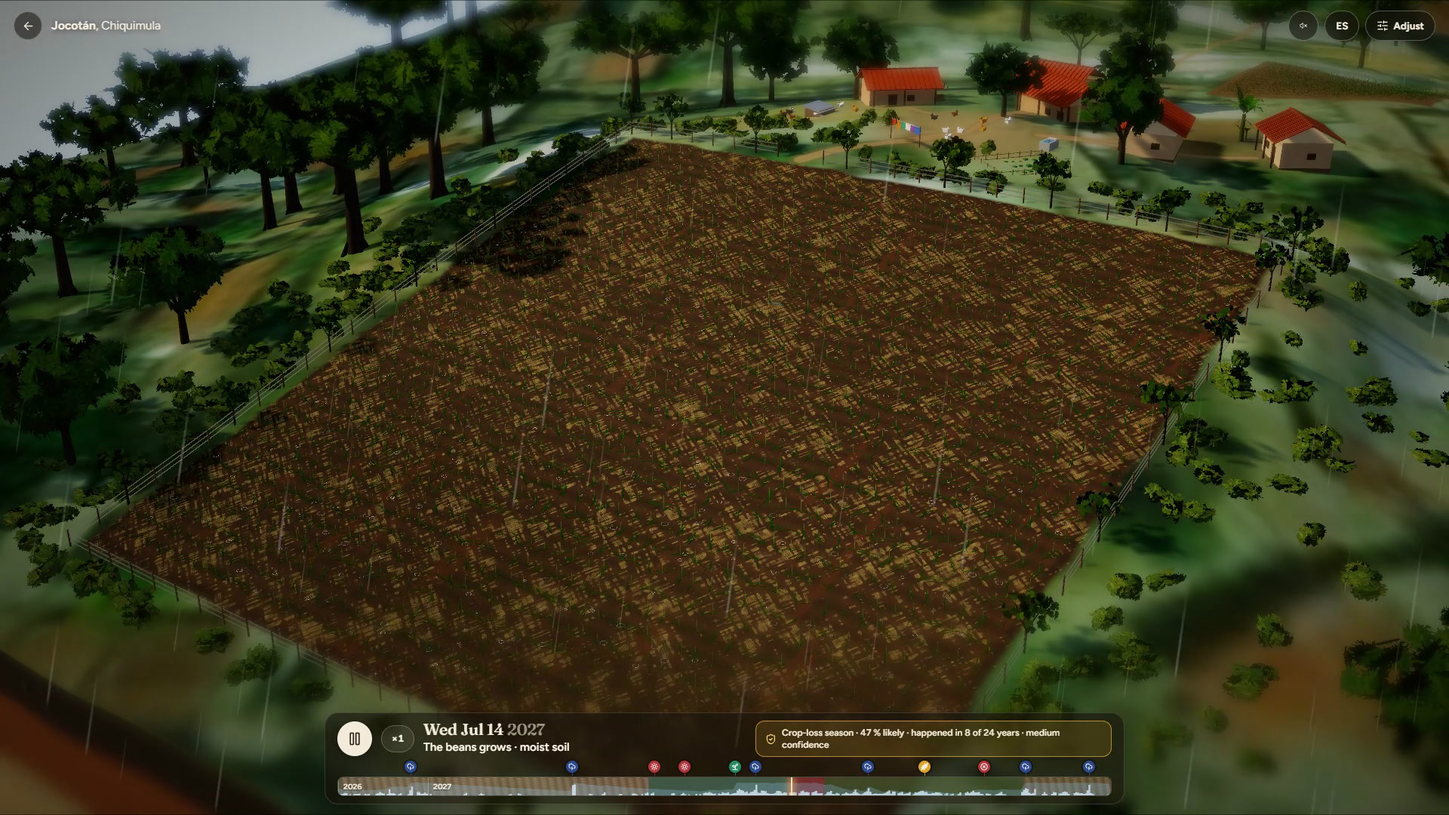
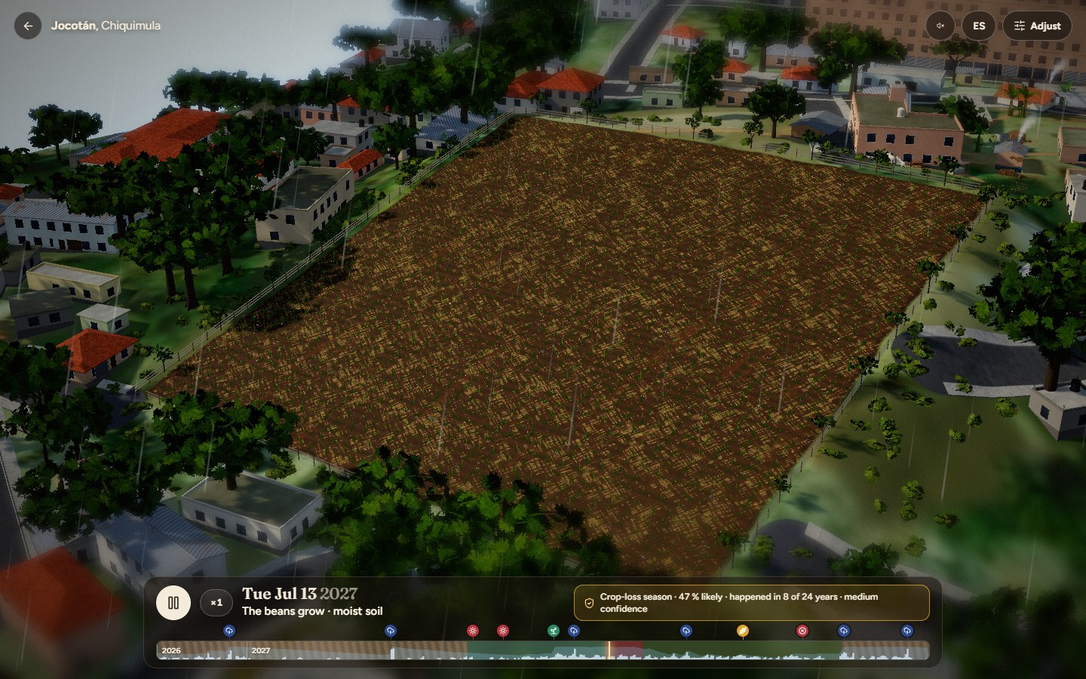
Integrador 4: ronda 4 unida (suelo, ciudad, casas, parcela exacta, informe breve, Evolution), progreso por etapa, e2e del flujo residencial → polígono → guía → informe, bot por Evolution falsa, capturas y textos EN

diff --git a/e2e/tests/sandbox.spec.ts b/e2e/tests/sandbox.spec.ts
@@ -174,3 +174,81 @@ test('simulador: VIDEO 🎬 devuelve el video de la milpa', async ({ page, reque
   await page.goto('/')
   await page.waitForTimeout(1000)
 })
+
+// Ronda 4: residencial de Ciudad de Guatemala → polígono dibujado → guía (casas vecinas en 3D) → informe minimalista
+// con gráficas exportables (PNG/SVG/CSV) → PDF con la misma forma.
+test('ronda 4: residencial (Zona 10) → polígono → guía → informe con gráficas exportables', async ({ page, request }) => {
+  test.skip(process.env.STATIC === '1', 'el motor y el PDF necesitan el servidor')
+  test.setTimeout(300_000)
+  const errors = watchErrors(page)
+  await page.goto('/?lang=es&e2e=1')
+  await page.waitForSelector('[data-testid=globo][data-listo="1"]', { timeout: 30_000 })
+  await page.getByTestId('buscar-lugar').fill('Condominio Las Margaritas')
+  const op = page.getByRole('option').filter({ hasText: /Zona 10|Guatemala/ }).first()
+  await expect(op).toBeVisible({ timeout: 25_000 })
+  await op.click()
+  await expect(page.getByTestId('lugar-elegido')).toBeVisible()
+  await page.waitForFunction(() => { const m = (window as any).__globo; return m && !m.isMoving() && m.getZoom() > 14 }, null, { timeout: 30_000 })
+  await page.waitForTimeout(1200)
+  await page.getByTestId('dibujar-terreno').click()
+  await page.getByTestId('forma-poligono').click()
+  await page.waitForTimeout(1000)
+  const v = page.viewportSize()!
+  const c = { x: v.width * 0.7, y: v.height * 0.5 }
+  for (const [dx, dy] of [[-60, -40], [60, -50], [70, 40], [-50, 50]]) { await page.mouse.click(c.x + dx, c.y + dy); await page.waitForTimeout(150) }
+  await page.getByTestId('cerrar').click()
+  await expect(page.getByTestId('dibujo-area')).toContainText(/cuerdas .* mz .* ha/)
+  await snap(page, 'residencial-01-poligono')
+  await page.getByTestId('dibujo-listo').click()
+  await page.getByTestId('ver-temporada').click()
+  await expect(page).toHaveURL(/\/sandbox\?.*forma=poligono&poly=/)
+  await snap(page, 'residencial-02-carga')
+  // la escena se arma en el navegador: forma real y edificios vecinos de la ciudad
+  await page.waitForFunction(() => (window as any).__fsListo, null, { timeout: 90_000 })
+  const listo = await page.evaluate(() => (window as any).__fsListo)
+  console.log('ready residencial:', JSON.stringify({ forma: listo.forma, areaM2: listo.areaM2, edificios: listo.edificios, casasQuitadas: listo.casasQuitadas, ms: listo.ms }))
+  expect(listo.forma).toBe('poligono')
+  expect(listo.edificios, 'casas vecinas en 3D').toBeGreaterThan(5)
+  const final = await guiaHastaFinal(page, 'residencial-')
+  await final.getByRole('link', { name: /informe técnico|technical report/i }).click()
+  await expect(page).toHaveURL(/\/informe\?.*forma=poligono/)
+  await expect(page.locator('body')).toContainText(/años|years/, { timeout: 90_000 })
+  await page.waitForTimeout(2500)
+  await snap(page, 'residencial-04-informe')
+  await snap(page, 'residencial-05-informe-completo', true)
+  // gráficas exportables
+  const png = page.getByRole('button', { name: 'PNG', exact: true }).first()
+  await png.scrollIntoViewIfNeeded()
+  for (const b of ['PNG', 'SVG', 'CSV']) {
+    const [d] = await Promise.all([page.waitForEvent('download'), page.getByRole('button', { name: b, exact: true }).first().click()])
+    const f = path.join(DIR, `residencial-grafica.${b.toLowerCase()}`)
+    await d.saveAs(f)
+    expect(fs.statSync(f).size, b).toBeGreaterThan(200)
+  }
+  const pdf = await request.get(`/api/informe.pdf${new URL(page.url()).search}`, { timeout: 170_000 })
+  expect(pdf.ok(), `pdf ${pdf.status()}`).toBeTruthy()
+  fs.writeFileSync(path.join(DIR, 'informe-residencial.pdf'), await pdf.body())
+  noErrors(errors)
+})
+
+// Ronda 4: una parcela sobre el río Motagua → la maqueta avisa y ofrece elegir otro lugar.
+test('ronda 4: parcela sobre el río Motagua avisa', async ({ page }) => {
+  await page.goto('/sandbox?lat=14.92010&lon=-90.00310&lugar=R%C3%ADo+Motagua&pais=GT&forma=circulo&radio=30&cultivo=milpa&auto=1&lang=es')
+  const aviso = page.getByRole('alertdialog')
+  await expect(aviso).toBeVisible({ timeout: 90_000 })
+  await snap(page, 'rio-motagua-aviso')
+  await aviso.getByRole('button').first().click()
+  await expect(page).toHaveURL(/elegir=1/)
+})
+
+// Ronda 4: desierto (Sahara, Erfoud) con punto → la escena arma arena y la guía corre.
+test('ronda 4: desierto (Sahara) con punto', async ({ page }) => {
+  test.skip(process.env.STATIC === '1', 'el motor global necesita el servidor')
+  await page.goto('/sandbox?lat=31.15000&lon=-4.00000&lugar=Erg+Chebbi&pais=MA&forma=punto&area=1&unidad=ha&cultivo=milpa&auto=1&lang=es')
+  await page.waitForFunction(() => (window as any).__fsListo, null, { timeout: 90_000 })
+  const listo = await page.evaluate(() => (window as any).__fsListo)
+  console.log('ready sahara:', JSON.stringify({ forma: listo.forma, bioma: listo.bioma, ms: listo.ms }))
+  expect(listo.forma).toBe('punto')
+  await page.waitForTimeout(6000)
+  await snap(page, 'sahara-01-guia')
+})

diff --git a/web/src/features/sandbox/ui/guia.ts b/web/src/features/sandbox/ui/guia.ts
@@ -57,7 +57,7 @@ export function lineaDia(tl: SimTimeline, dia: number, estacion: Estacion, idiom
       ? {
           racha_seca: `${estacion === 'canicula' ? 'Mid-summer drought' : 'Dry spell'}: ${Math.round(e.dias || e.valor)} days without rain`,
           tormenta: `Storm: ${v(e.valor)} mm in one day`,
-          siembra: `Planting · ${cul.toLowerCase()} goes in`,
+          siembra: `Planting · ${cul.toLowerCase()} ${/s$/i.test(cul) ? 'go' : 'goes'} in`,
           cosecha: `Harvest: ${v(e.valor, 1)} qq/mz`,
           perdida: 'The harvest is lost',
           calor: `Heat: ${v(e.valor, 1)} °C`,
@@ -88,8 +88,10 @@ export function lineaDia(tl: SimTimeline, dia: number, estacion: Estacion, idiom
   const cap = tl.capas[k]
   const et = cap.etapa[d]
   const cul = cultivoDe(cap.cultivo, en)
+  // concordancia en inglés: "The beans grow", "The maize grows"
+  const pl = en && /s$/i.test(cul)
   const fase = en
-    ? et < 0.15 ? `${cul} sprouts` : et < 0.45 ? `${cul} grows` : et < 0.65 ? `${cul} flowers` : et < 0.9 ? 'Grain filling' : 'Ready to harvest'
+    ? et < 0.15 ? `${cul} ${pl ? 'sprout' : 'sprouts'}` : et < 0.45 ? `${cul} ${pl ? 'grow' : 'grows'}` : et < 0.65 ? `${cul} ${pl ? 'flower' : 'flowers'}` : et < 0.9 ? 'Grain filling' : 'Ready to harvest'
     : et < 0.15 ? `${cul} nace` : et < 0.45 ? `${cul} crece` : et < 0.65 ? `${cul} en floración` : et < 0.9 ? 'Llenado del grano' : 'Lista para cosechar'
   const extra = ll >= 5 ? (en ? ` · ${numero(ll, 0)} mm of rain` : ` · llueve ${numero(ll, 0)} mm`)
     : agua < 0.25 ? (en ? ' · dry soil' : ' · suelo seco')

diff --git a/web/src/features/informe/textos.ts b/web/src/features/informe/textos.ts
@@ -14,7 +14,7 @@ const ES = {
   error: 'No se pudo armar el informe.',
   reintentar: 'Reintentar',
   cultivo: 'Cultivo', area: 'Área', riego: 'Riego', prioridad: 'Prioridad', coords: 'Coordenadas',
-  riegoNada: 'sin riego (temporal)', mmSem: 'mm/semana',
+  riegoNada: 'sin riego (temporal)', mmSem: 'mm/semana', mmSemCorto: 'mm/sem',
   origen_api: 'Cálculo en vivo del motor',
   origen_static: 'Plan precalculado del motor (la API no respondió)',
   origen_approx: 'Plan precalculado más cercano (la API no respondió): los números son de otra combinación',
@@ -229,7 +229,7 @@ const EN: Record<Clave, string> = {
   error: 'The report could not be built.',
   reintentar: 'Retry',
   cultivo: 'Crop', area: 'Area', riego: 'Irrigation', prioridad: 'Priority', coords: 'Coordinates',
-  riegoNada: 'rain-fed (no irrigation)', mmSem: 'mm/week',
+  riegoNada: 'rain-fed (no irrigation)', mmSem: 'mm/week', mmSemCorto: 'mm/wk',
   origen_api: 'Live engine calculation',
   origen_static: 'Engine precomputed plan (the API did not answer)',
   origen_approx: 'Closest precomputed plan (the API did not answer): numbers are from another combination',

diff --git a/web/src/features/sandbox/escena/nucleo/sandbox.ts b/web/src/features/sandbox/escena/nucleo/sandbox.ts
@@ -200,7 +200,7 @@ class SandboxImpl implements Sandbox {
     const etapa = (e: EtapaCarga, f: number) => {
       // progreso global: cada etapa ocupa un tramo de la barra
       const [a, b] = TRAMOS[e]
-      this.emitir('progreso', { etapa: e, p: Math.min(1, a + (b - a) * Math.min(1, Math.max(0, f))), texto: TEXTO_ETAPA[this.opts.idioma ?? 'es'][e] })
+      this.emitir('progreso', { etapa: e, u: Math.min(1, Math.max(0, f)), p: Math.min(1, a + (b - a) * Math.min(1, Math.max(0, f))), texto: TEXTO_ETAPA[this.opts.idioma ?? 'es'][e] })
     }
     const cierra = (e: string) => { const t = performance.now(); tiempos[e] = Math.round(t - tEtapa); tEtapa = t }
     const areaPedida = Math.max(100, (p.areaValor ?? 8) * (M2[p.areaUnidad ?? 'cuerda'] ?? M2.cuerda))

diff --git a/web/src/features/sandbox/escena/api.ts b/web/src/features/sandbox/escena/api.ts
@@ -109,7 +109,7 @@ export interface SandboxEvents {
   }
   progress: { fase: string; p: number }
   /** Carga por etapas (ronda 4): p = avance total 0..1, texto listo para la pantalla de carga. */
-  progreso: { etapa: EtapaCarga; p: number; texto: string }
+  progreso: { etapa: EtapaCarga; /** avance de la etapa 0..1 */ u: number; /** avance global 0..1 */ p: number; texto: string }
   /** La parcela cae (más del 20 %) en agua de río/lago: vuelo4 lo avisa y pide mover el punto. */
   parcelaEnAgua: { fraccion: number; lat: number; lon: number; tipo?: 'rio' | 'lago' | 'mar' }
   dia: { indice: number; fecha: string; clima: ClimaVisual }

diff --git a/web/src/features/informe/graficos/GTemporada.vue b/web/src/features/informe/graficos/GTemporada.vue
@@ -53,7 +53,7 @@ const meses = computed(() => {
       <text :x="L - 5" :y="yl(t) + 3.5" text-anchor="end" class="ax">{{ t }}</text>
       <text :x="W - R + 5" :y="yl(t) + 3.5" class="ax">{{ Math.round((t / tope) * 100) }}%</text>
     </g>
-    <text x="2" :y="T - 12" class="ax u">mm/sem</text>
+    <text x="2" :y="T - 12" class="ax u">{{ tx('mmSemCorto') }}</text>
     <text :x="W - 2" :y="T - 12" text-anchor="end" class="ax u">{{ tx('aguaCorto') }}</text>
     <g v-for="(v, i) in lluviaS" :key="i">
       <rect v-if="v > 0" :x="xd(i * 7) + 0.6" :y="yl(v)" :width="Math.max(1, bw - 1.2)" :height="yl(0) - yl(v)" :fill="TONO.cielo" />

diff --git a/web/src/features/sandbox/vuelo/escena.ts b/web/src/features/sandbox/vuelo/escena.ts
@@ -123,7 +123,8 @@ function adaptarReal(crear: any, canvas: HTMLCanvasElement, o: OpcionesSandbox):
   let tlActual: unknown = null
   let pend: Promise<void> = Promise.resolve()
   const listo = new Promise<void>((res) => {
-    sb.on('ready', (d: any) => { rumbo = d?.rumboCamara; res() })
+    // último ready a la vista (e2e y depuración: forma, edificios, casasQuitadas, aguaEnParcela)
+    sb.on('ready', (d: any) => { rumbo = d?.rumboCamara; (window as any).__fsListo = d; res() })
     sb.on('error', () => res())
   })
   return {

diff --git a/submission/pitch/portal_page.md b/submission/pitch/portal_page.md
@@ -1,6 +1,6 @@
-# Project page texts · round 3 (English, ready to paste)
+# Project page texts · round 4 (English, ready to paste)
 
-These replace or extend the fields in `submission/0*.md` with the round-3 features: **global**, **forecast with measured confidence**, **technical report**, **real WhatsApp**.
+These replace or extend the fields in `submission/0*.md` with the round-3 and round-4 features: **global**, **forecast with measured confidence**, **technical report**, **real WhatsApp**, and (round 4) **the exact plot drawn on the map**, **a realistic diorama built in the visitor's browser** and **a short report with exportable charts**.
 Markers `⟦…⟧` must be filled before pressing Submit (`grep -rn "⟦" submission/`).
 Every number below comes from the engine output or the backtest already in the repo (sources in brackets at the end of this file). Before submitting, re-check the ones tagged ⟦CHECK⟧ against the final build.
 
@@ -29,9 +29,13 @@ Field Shift is a free planning and early-warning tool for rain-fed smallholders,
 3. **When do I need to act?** Dry-spell, heavy-rain, planting-window and frost alerts on WhatsApp, all season long.
 
 ### How it works
-**1. Two taps.** On the landing page the farmer searches a town or taps the map, then answers what they grow, how big the plot is (in *cuerdas*, *manzanas* or hectares) and whether they irrigate. Everything else has sensible defaults. The guided video starts on its own.
+**1. Two taps, or the exact plot.** On the landing page the farmer searches a town, village, *colonia*, residential or condominium anywhere in the world (OpenStreetMap Photon and Nominatim, Esri World Geocoder, Open-Meteo), for example "Condominio Las Margaritas" → Zona 10, Guatemala City. Two taps are enough. They can also mark **the exact plot**: a point, a circle with a draggable radius, or a free polygon of up to 200 corners clicked on high-resolution imagery. The area is computed from the shape (in *cuerdas*, *manzanas* and hectares). If the shape falls on a river or lake (OpenStreetMap water), the page warns and does not let them continue. Everything else has sensible defaults. The guided video starts on its own.
 
-**2. The flight.** The camera flies from the map straight to the pin (centred) and down to the real terrain: SRTM relief and Sentinel-2 cloudless imagery. The plot rises as a small diorama on the real slope, with a ranch house and trees.
+**2. The flight and the diorama, built on the visitor's device.** The camera flies from the map straight to the plot and down to the real terrain (SRTM relief, Esri World Imagery, with the whole route preloaded so no blank tiles appear). The real outline of the plot is drawn on the ground. Then the plot rises as a diorama **to real scale and with its real shape**, and everything is rendered in the visitor's browser (WebGL), with a loading screen that names each stage: relief, ground, city, houses, vegetation. Quality adapts to the device. On a laptop GPU the first load takes 7–15 s, then 50–60 fps.
+- **The ground is the real land cover**: ESA WorldCover / Esri–Impact Observatory 10 m land cover (Sentinel-2), refined with the satellite colour and the slope, becomes 3D materials: grass with blades that move in the wind, sand with ripples and dunes, rock with strata, tilled soil with clods, wetland, leaf litter. Rivers and lakes from OpenStreetMap are real water with banks.
+- **The neighbourhood is modelled**: building footprints from Overture Maps (OpenStreetMap, Google and Microsoft Open Buildings), with heights from OSM or estimated, and the roof type read from the satellite image (clay tile, concrete slab, metal sheet). Buildings that fall inside the plot are removed; streets follow the terrain. Footprints are real; facades and estimated heights are illustrative.
+- **Rural plots get a farm** chosen from the biome (milpa, coffee under shade, cattle, vegetables with a tunnel, dry farm with a well), with adobe or block houses, animals and paths.
+- **Nothing is placed on water.** No plot, tree, house or fence ends up in a river or lake. If the plot itself is on water, the diorama says so and offers to pick another place.
 
 **3. The season, from the forecast.** The engine (`POST /api/simulate`, scenario `pronostico`, the default) builds the coming season:
 - **days 1–16**: the daily forecast from the best available model (ECMWF IFS / NOAA GFS via Open-Meteo);
@@ -52,9 +56,9 @@ That weather goes through the same deterministic engine as the rest of the tool 
 
 For each one it reports seasons lost out of 10 (P10–P90), water deficit, yield range in quintals per manzana, organic-matter trend over 5 years, erosion, bare-soil days, and the **five-point sheet**: why it is suggested, evidence, benefits, missing information, and risks that need local review. The farmer's priorities and limits (food, water, soil or income; labour; livestock; seed access) re-rank the options. In Jocotán (all seasons 2001–2025): S0 loses 3.3 of 10 seasons with 61 t/ha/yr of erosion; S1 loses 1.1 with 12 t/ha/yr; S2 loses 2.6 with 4 t/ha/yr, and bare soil drops from 260 to 115 days a year. A 2026 ↔ 2040 switch recomputes the plan with NEX-GDDP-CMIP6 deltas.
 
-**6. The technical report.** At the end of the video, one tap opens `/informe` (web, print-ready, English/Spanish) or downloads it as a PDF (`/api/informe.pdf`). It has 13 sections: executive summary, location and 2001–2025 climate, predicted scenario and confidence, planting calendar and canícula, the three strategies with their five-point sheets, effect of irrigation, 2040 under CMIP6, active alerts and what to do, AI vs statistics, methodology, validation, sources and limitations. The video stays clean; the numbers live in the report, which the farmer can hand to their extension agent.
+**6. The report: short, visual, exportable.** At the end of the video, one tap opens `/informe` (web, English/Spanish) or downloads it as a PDF (`/api/informe.pdf`). The cover fits one screen: a one-sentence verdict, four big numbers (risk out of 10, harvest range for the coming season, confidence, soil organic matter in 5 years) and a satellite map with the real shape of the plot. Then six sections, each with **one chart** and two or three lines: the coming season (weekly rain and soil water against the FAO-56 stress line), the three strategies as P10–P50–P90 ranges, dry-month risk, soil in 5 years, the effect of irrigation, and 2040. Every chart can be downloaded as **PNG, SVG or CSV** with the raw data. A **"What to get"** section turns the result into practical items: short-cycle seed, mucuna/canavalia, water harvesting sized to the plot (litres per week), drip irrigation, mulch, a rain gauge, a hermetic silo. Each says why (with the engine's numbers), when, and where to ask (MAGA, ICTA, farm stores). No brands, and no prices without a verified source. The full technical annex (confidence, five-point sheets, 25 seasons, methodology, validation, sources, limitations) is folded at the end and printed in the PDF. Every number on the page is checked against the engine output by an automated script.
 
-**7. Alerts on real WhatsApp.** The same bot works on the web phone simulator and on a real WhatsApp number linked as a device ⟦CHECK: number + QR/join instructions on the site⟧. A farmer sends a location pin, answers buttons, and gets the plan card, the season video (MP4 with ambient sound and narration) and the technical report as a PDF document in the chat. Voice notes work both ways: a voice note is transcribed on the team's GPU (faster-whisper) and answered like text, and typing AUDIOS makes the bot also reply with short synthetic voice notes (TEXTO turns it off). They can opt in to alerts: an engine runs every day at 06:00 local time and sends, idempotently, a warning when the 16-day forecast shows a dry spell (≥ 7 dry days with each model's threshold calibrated against NASA POWER 2001–2025), heavy rain (above the local 95th percentile), the rain onset or a false onset, the seasonal El Niño outlook, or frost. Every alert says *what is coming · when · how sure we are · what to do · check with your extension agent*. Sending **PRUEBA ALERTA** (or **TEST ALERT**) triggers one at once, so a judge can try it. Commands: MENU, CAMBIAR, EN, AYUDA, VIDEO, AUDIOS/TEXTO, BAJA/STOP.
+**7. Alerts on real WhatsApp.** The same bot works on the web phone simulator and on a real WhatsApp number linked as a device through **Evolution API** (open source, self-hosted; the team scans a QR code once on `/admin/whatsapp`) ⟦CHECK: number + QR/join instructions on the site⟧. A farmer sends a location pin, answers buttons, and gets the plan card, the season video (MP4 with ambient sound and narration) and the technical report as a PDF document in the chat. Voice notes work both ways: a voice note is transcribed on the team's GPU (faster-whisper) and answered like text, and typing AUDIOS makes the bot also reply with short synthetic voice notes (TEXTO turns it off). They can opt in to alerts: an engine runs every day at 06:00 local time and sends, idempotently, a warning when the 16-day forecast shows a dry spell (≥ 7 dry days with each model's threshold calibrated against NASA POWER 2001–2025), heavy rain (above the local 95th percentile), the rain onset or a false onset, the seasonal El Niño outlook, or frost. Every alert says *what is coming · when · how sure we are · what to do · check with your extension agent*. Sending **PRUEBA ALERTA** (or **TEST ALERT**) triggers one at once, so a judge can try it. Commands: MENU, CAMBIAR, EN, AYUDA, VIDEO, AUDIOS/TEXTO, BAJA/STOP.
 
 **8. The 2026 time machine (validation of the alerts).** We replayed the alert engine on every day of the real 2026 season (195 days) using only the forecasts that existed that morning (Open-Meteo Historical Forecast API), and compared each alert with NASA POWER observed rain. Jocotán: **5 of 6 dry-spell alerts confirmed, 0 false alarms**, rain onset called 4 days ahead, best lead time **7 days** (17 Oct 2026, before an 8-day dry spell; median 2 days). Heavy rain is harder: **3 of 14** alerts confirmed (21 % precision vs 6 % by chance), though both multi-day storm episodes were flagged. We publish the misses.
 
@@ -80,7 +84,7 @@ Any latitude and longitude work. Outside the 342 precomputed Guatemalan municipa
 3.4 million people in Guatemala (19 % of the population) were in acute food insecurity (IPC Phase 3+) in May–August 2025, and 3.2 million are projected for July–September 2026 (IPC/SESAN), a year in which El Niño lengthened the dry spells in the Dry Corridor. Hundreds of millions of smallholders elsewhere farm on rain alone with the same blind spot. A tool that runs on WhatsApp, works anywhere, and says how sure it is can reach them where no farm app does.
 
 ### What works today and next steps
-- **Today**: public web (English/Spanish, mobile-first, static fallback); two-tap landing → guided 3D season video from the forecast with a confidence badge; technical report (web + PDF); WhatsApp bot on a real linked number and on the web simulator, with daily alerts; 2026 time machine; risk map of 342 municipalities; the engine running on the server and in the browser (WebAssembly).
+- **Today**: public web (English/Spanish, mobile-first, static fallback); two-tap landing with worldwide neighbourhood search and exact plot drawing (point, circle, polygon) → guided 3D season on a realistic diorama of the real plot and its neighbourhood, rendered in the visitor's browser, with a confidence badge; short report with exportable charts and practical recommendations (web + PDF); WhatsApp bot on a real linked number and on the web simulator, with daily alerts; 2026 time machine; risk map of 342 municipalities; the engine running on the server and in the browser (WebAssembly).
 - **Next**: an official WhatsApp Business number (Meta Cloud API, approved Utility templates) to replace the demo-linked number; a pilot with MAGA extension agents in Chiquimula; recalibration with the weekly field reports; voice notes and Mayan languages (Ch'orti', K'iche', Q'eqchi') with native speakers; local drought records outside Guatemala so confidence can be validated there too.
 
 ---
@@ -123,7 +127,7 @@ Any latitude and longitude work. Outside the 342 precomputed Guatemalan municipa
 - Full list with links, libraries and licences: `submission/05_partner_data_and_references.md`.
 
 ## 7 · Tools
-Go (net/http, FAO-56 engine also compiled to WebAssembly, PNG plan cards with fogleman/gg, SQLite via modernc.org/sqlite, PDF report via chromedp + headless Chromium), WhatsApp linked-device channel (whatsmeow) plus Meta Cloud API and Twilio adapters, Vue 3 + Vite + TypeScript, Pinia, Vue Router, Three.js (3D season), MapLibre GL (maps), GSAP, Lucide icons, Vitest, Playwright, headless Chromium + FFmpeg (NVENC) for the server-rendered season video, edge-tts (narration) and faster-whisper on CUDA (voice notes).
+Go (net/http, FAO-56 engine also compiled to WebAssembly, PNG plan cards with fogleman/gg, SQLite via modernc.org/sqlite, PDF report via chromedp + headless Chromium), WhatsApp linked-device channels (Evolution API v2 and whatsmeow) plus Meta Cloud API and Twilio adapters, Vue 3 + Vite + TypeScript, Pinia, Vue Router, Three.js (3D season; procedural ground materials, Web Workers, IndexedDB cache), MapLibre GL (maps), Overture Maps PMTiles and OpenStreetMap (Overpass, OpenFreeMap vector tiles) for buildings, streets and water, ESA WorldCover and Esri–Impact Observatory land cover, GSAP, Lucide icons, Vitest, Playwright, headless Chromium + FFmpeg (NVENC) for the server-rendered season video, edge-tts (narration) and faster-whisper on CUDA (voice notes).
 
 ---
 

diff --git a/submission/03_detailed_description.md b/submission/03_detailed_description.md
@@ -52,6 +52,8 @@ A 3D relief map (SRTM terrain, Sentinel-2 cloudless imagery) of Guatemala's 342 
 ### 6. The 3D sandbox: see your season before you plant it
 "See it in 3D" (on the plan, or the VIDEO 🎬 command in WhatsApp) opens a continuous shot: Guatemala's risk map → a flight down to the municipality's real terrain (SRTM relief, Sentinel-2 imagery) → the farmer's plot rising as a small diorama on the real slope. Then the season plays as a timelapse **driven day by day by the same engine** (`POST /api/simulate`): rain, soil water, crop stage and stress, residue on the ground, dry spells, storms above the local 95th percentile, heat, frost, planting and harvest, with a HUD showing soil water, crop stress, expected harvest and organic matter. The farmer can change the strategy (S0/S1/S2), irrigation (none, 10, 20 or 35 mm per week), scenario (typical year, El Niño year, real 2026, multi-year run, 2040) and case (P10/P50/P90), jump to any event on the timeline, and compare **S0 | S2 side by side on the same day**. Honesty is built in: a future season cannot be forecast day by day, so each simulated season replays the real NASA POWER weather of a past year (resampling) and says which one ("real 2013 weather, resampled"); plants are drawn to scale only approximately, the numbers are the engine's. The sandbox also runs **without a server**: the engine is compiled to WebAssembly, so the static site recalculates in the browser (20–40 ms per run). A 20–30 s video of the season can be exported in the browser (H.264) or sent by the bot (`GET /api/sim/video.mp4`, rendered by the server with headless Chromium and cached), ready to forward to a WhatsApp group.
 
+**Round 4, the exact plot and a realistic diorama.** The farmer can search a *colonia*, residential or condominium anywhere in the world and mark the exact plot as a point, a circle or a free polygon clicked on high-resolution imagery; a plot on a river or lake is refused with a clear warning. The diorama is then built **in the visitor's browser** to real scale with the real shape: the ground uses ESA WorldCover / Esri–Impact Observatory 10 m land cover as 3D materials (grass blades, sand ripples, rock, tilled soil, wetland), rivers and lakes from OpenStreetMap are real water, neighbouring buildings come from Overture Maps footprints with roofs read from the satellite image (buildings inside the plot are removed), and nothing is ever placed on water. The report at the end is now one screen of key numbers plus six charts that download as PNG, SVG or CSV, and a "What to get" list of practical items tied to the engine's numbers.
+
 ## The engine (deterministic; AI explains, never computes)
 1. **Reference evapotranspiration** ET₀, FAO-56 Penman-Monteith, daily, from NASA POWER (T2M_MAX, T2M_MIN, RH2M, WS2M, ALLSKY_SFC_SW_DWN).
 2. **Crop water demand** ETc = Kc × ET₀ for maize, beans, sorghum, mucuna and canavalia (FAO-56 Kc tables and stage lengths).
@@ -83,7 +85,7 @@ Every plan and every alert ends with "check with your extension agent". The five
 3.4 million people in Guatemala (19 % of the population) faced acute food insecurity (IPC Phase 3 or above) in May–August 2025, and 3.2 million are projected for July–September 2026 (IPC/SESAN), and El Niño 2026 brought long dry spells to the Dry Corridor. A free WhatsApp number that knows the local climate, warns before the dry spell and suggests a soil-friendly rotation can reach farmers that no app reaches.
 
 ## What works today and next steps
-- **Today**: web (English/Spanish) with static fallback so the public link never fails; 3D season sandbox (server, WebAssembly or precomputed JSON) with video export; Go backend with the WhatsApp Cloud API test number (up to 5 registered phones, as Meta allows for testing), the Twilio sandbox and the web simulator; alert engine with the 2026 backtest.
+- **Today**: web (English/Spanish) with static fallback so the public link never fails; 3D season sandbox (server, WebAssembly or precomputed JSON) on a realistic diorama of the exact plot drawn by the farmer, rendered in the browser, with video export; short report with exportable charts (web + PDF); WhatsApp through a self-hosted Evolution API linked device; Go backend with the WhatsApp Cloud API test number (up to 5 registered phones, as Meta allows for testing), the Twilio sandbox and the web simulator; alert engine with the 2026 backtest.
 - **Next**: Meta business verification and approved templates for production; a pilot with MAGA extension agents in Chiquimula; field data from the weekly follow-up to recalibrate; voice notes and Mayan languages (Ch'orti', K'iche', Q'eqchi') built with native speakers; an educational game that reuses the same engine.
 
 ## Tools

diff --git a/submission/05_partner_data_and_references.md b/submission/05_partner_data_and_references.md
@@ -2,6 +2,7 @@
 
 ## Space agency partner data
 - **Copernicus Sentinel-2** (ESA) through *Sentinel-2 cloudless 2020 by EOX IT Services GmbH* (contains modified Copernicus Sentinel data 2020), CC BY-NC-SA 4.0, base imagery of the map. https://s2maps.eu/
+- **ESA WorldCover 2021** 10 m land cover (Sentinel-1/2), CC BY 4.0, Zanaga et al. (2022), https://esa-worldcover.org/ — first choice for the ground materials of the 3D diorama. When the Terrascope service does not answer, the diorama uses **Esri / Impact Observatory 10 m Land Use/Land Cover** (Sentinel-2, 2024), CC BY 4.0, https://livingatlas.arcgis.com/landcover/.
 
 ## Other data
 - **Open-Meteo**: 16-day forecast, ensemble forecast (ECMWF IFS ENS, NOAA GFS ENS) and Historical Forecast API (archived forecasts for the 2026 backtest). https://open-meteo.com/ (CC BY 4.0). Forecast models: ECMWF, NOAA NCEP GFS.
@@ -9,6 +10,10 @@
 - **geoBoundaries** Guatemala ADM2 (342 municipalities; source CONRED/OCHA), CC BY 3.0 IGO. Runfola et al. (2020), *geoBoundaries: A global database of political administrative boundaries*, PLOS ONE 15(4): e0231866. https://www.geoboundaries.org/
 - **ISRIC SoilGrids** 250 m (texture, organic carbon), CC BY 4.0, https://soilgrids.org/. Where the service returned no data, typical values from the Guatemalan soil classification (Simmons et al. 1959; MAGA 2000) were used and flagged for local soil analysis.
 - **FAO GAEZ** (reference for crop suitability context). https://gaez.fao.org/
+- **Esri World Imagery** (satellite base imagery of the maps, the flight and the diorama) and **Esri World Geocoder** (place search). Sources: Esri, Maxar, Earthstar Geographics and the GIS user community. https://www.arcgis.com/
+- **Terrain Tiles (Terrarium) on AWS Open Data** (SRTM-based elevation for the 3D relief). https://registry.opendata.aws/terrain-tiles/
+- **Overture Maps Foundation** buildings (OpenStreetMap, Google Open Buildings, Microsoft Global ML Building Footprints), ODbL / CDLA Permissive 2.0, footprints of the neighbouring houses in the diorama. https://overturemaps.org/
+- **OpenStreetMap** contributors (ODbL): streets, street trees, rivers and lakes via Overpass API and OpenFreeMap vector tiles; place search via Photon (komoot) and Nominatim. https://www.openstreetmap.org/copyright
 
 ## Methods
 - Allen, R.G., Pereira, L.S., Raes, D., Smith, M. (1998). *Crop evapotranspiration: Guidelines for computing crop water requirements*. FAO Irrigation and Drainage Paper 56.
@@ -32,6 +37,7 @@
 ## Software and libraries
 - Go 1.26 standard library · `github.com/fogleman/gg` (MIT) and `github.com/golang/freetype` (FreeType/BSD) for PNG cards · `modernc.org/sqlite` (BSD-3) · `golang.org/x/image`, `golang.org/x/text` (BSD-3) · `github.com/google/uuid` (BSD-3).
 - Vue 3, Vite, TypeScript, Pinia, Vue Router (MIT) · MapLibre GL JS (BSD-3) · GSAP (GreenSock standard license, free) · Lucide icons (ISC) · Vitest, Playwright (MIT / Apache-2.0).
+- WhatsApp: Evolution API v2 (Apache-2.0, self-hosted, Baileys) · whatsmeow (MPL-2.0).
 - 3D sandbox: three.js (MIT) · `mp4-muxer` (MIT) + WebCodecs for in-browser video · Go compiled to WebAssembly (engine offline) · `github.com/chromedp/chromedp` (MIT) + ffmpeg (LGPL/GPL, NVENC) for server-rendered videos.
 - Messaging: Meta WhatsApp Cloud API · Twilio WhatsApp Sandbox.
 - Fonts: Fraunces (Undercase Type) and Figtree (Erik Kennedy), both SIL Open Font License 1.1, self-hosted via Fontsource.

diff --git a/COORDINACION.md b/COORDINACION.md
@@ -202,3 +202,10 @@ Cableado (integrador, fuera de carpetas de dueño solo lo mínimo):
 - **Audio**: guía en vivo (`createAudio` arranca muda, `setDay` por cuadro, play/pausa, `decir('fin')`, `BotonSonido` en la barra, `Subtitulos` sobre la guía); exportador del navegador con pista AAC (`renderizarAudio` con el día de cada cuadro); render del servidor: `window.__fsRec.audio()` → WAV → ffmpeg `-c:a aac` (`SIMVIDEO_AUDIO=0` lo apaga). ffmpeg del servidor ahora sin ventana (`ocultar`).
 Arreglos durante la integración: cliente con tope 3.5 s para todo → punto nuevo del mundo caía a "ejemplo" (ahora 45 s para plan/simulate y 30 s para sitio fuera de GT); motor global: una descarga por punto (mutex por id) y **SoilGrids con tope de 8 s** (tardaba 53 s; respaldo por textura del bioma, la descarga sigue a disco); tarjeta final mostraba "0 qq/mz" en temporadas perdidas (ahora el número real + "temporada perdida (< 70 %)" y frase propia); insignia nombra la **clase** de temporada (pérdida/regular/buena) cuya probabilidad muestra.
 Verificado: `go test -p 1 ./...` ✅ · vitest 113/113 ✅ · e2e 21/21 con servidor (flujo nuevo Jocotán y Nairobi con informe web+PDF, simulador con video + PDF + PRUEBA ALERTA) y 12/12 estático ✅ · exportar MP4 en el navegador con audio ✅. Entrega regenerada (video 30 s EN, capturas, GIFs, 7 diapositivas, 8 precalculados con audio, clip del /demo). Estado: `spaceapps-fieldshift-agentes\estado\integrador3.md`.
+
+## INTEGRADOR 4 (14-nov 20:30) · rama `integracion` (sin push)
+- Unido en orden: feat/escena3d (ya traía suelo, ciudad, casas) → feat/web → feat/vuelo → feat/informe → feat/evolution. Sin conflictos.
+- Cableado: evento `progreso` ahora trae `u` (avance de la etapa; `p` sigue siendo el global) → la pantalla de carga de vuelo4 muestra % por etapa. `window.__fsListo` = último `ready` de la escena (e2e/depuración).
+- Arreglos EN: "The beans grow / go in" (concordancia en la guía), eje "mm/wk" en la gráfica de la temporada del informe.
+- e2e nuevos (`e2e/tests/sandbox.spec.ts`): residencial Zona 10 → polígono → guía (≥ 5 edificios vecinos) → informe con descargas PNG/SVG/CSV → PDF; río Motagua avisa; Sahara con punto. `e2e/evolution-falsa.mjs`: bot por WA_MODO=evolution contra una Evolution falsa (texto, tarjeta, video, PDF, PRUEBA ALERTA). `e2e/capturas-r4.mjs`: capturas EN de submission.
+- **→ verificador4 / video4**: build en `bin\fieldshift-server.exe`; capturas nuevas `submission/screenshots/21–28`.

diff --git a/submission/README.md b/submission/README.md
@@ -13,7 +13,7 @@ Everything here is in English (portal rule). Markers `⟦TBD …⟧` are filled 
 | 6. Use of Artificial Intelligence | [06_use_of_ai.md](06_use_of_ai.md) |
 | 7. NASA Data | [04_nasa_data.md](04_nasa_data.md) |
 | 8. Space Agency Partner Data & Other References | [05_partner_data_and_references.md](05_partner_data_and_references.md) |
-| Images (JPG/PNG/GIF ≤ 10 MB) | `screenshots/` (final round-3 build, English: landing, centred flight, diorama with ranch, guided season, result card, technical report, S0 \| S2, WhatsApp simulator with TEST ALERT, risk map, alerts time machine, plan, mobile; GIFs `19-flow-landing-to-diorama.gif` and `20-guided-season.gif`; add a photo of the real linked WhatsApp chat) |
+| Images (JPG/PNG/GIF ≤ 10 MB) | `screenshots/` (final round-4 build, English: `21`–`28` new in round 4: worldwide neighbourhood search, drawing the exact plot, loading screen (built in your browser), neighbourhood diorama with 3D houses, desert plot, plot-on-a-river warning, report charts with PNG/SVG/CSV export, "What to get"; `03` and `06` refreshed; round 3: landing, centred flight, diorama with ranch, guided season, result card, technical report, S0 \| S2, WhatsApp simulator with TEST ALERT, risk map, alerts time machine, plan, mobile; GIFs `19-flow-landing-to-diorama.gif` and `20-guided-season.gif`; add a photo of the real linked WhatsApp chat) |
 | WhatsApp message templates (create in WhatsApp Manager) | [whatsapp_templates.md](whatsapp_templates.md) |
 
 ## Checklist before pressing Submit
